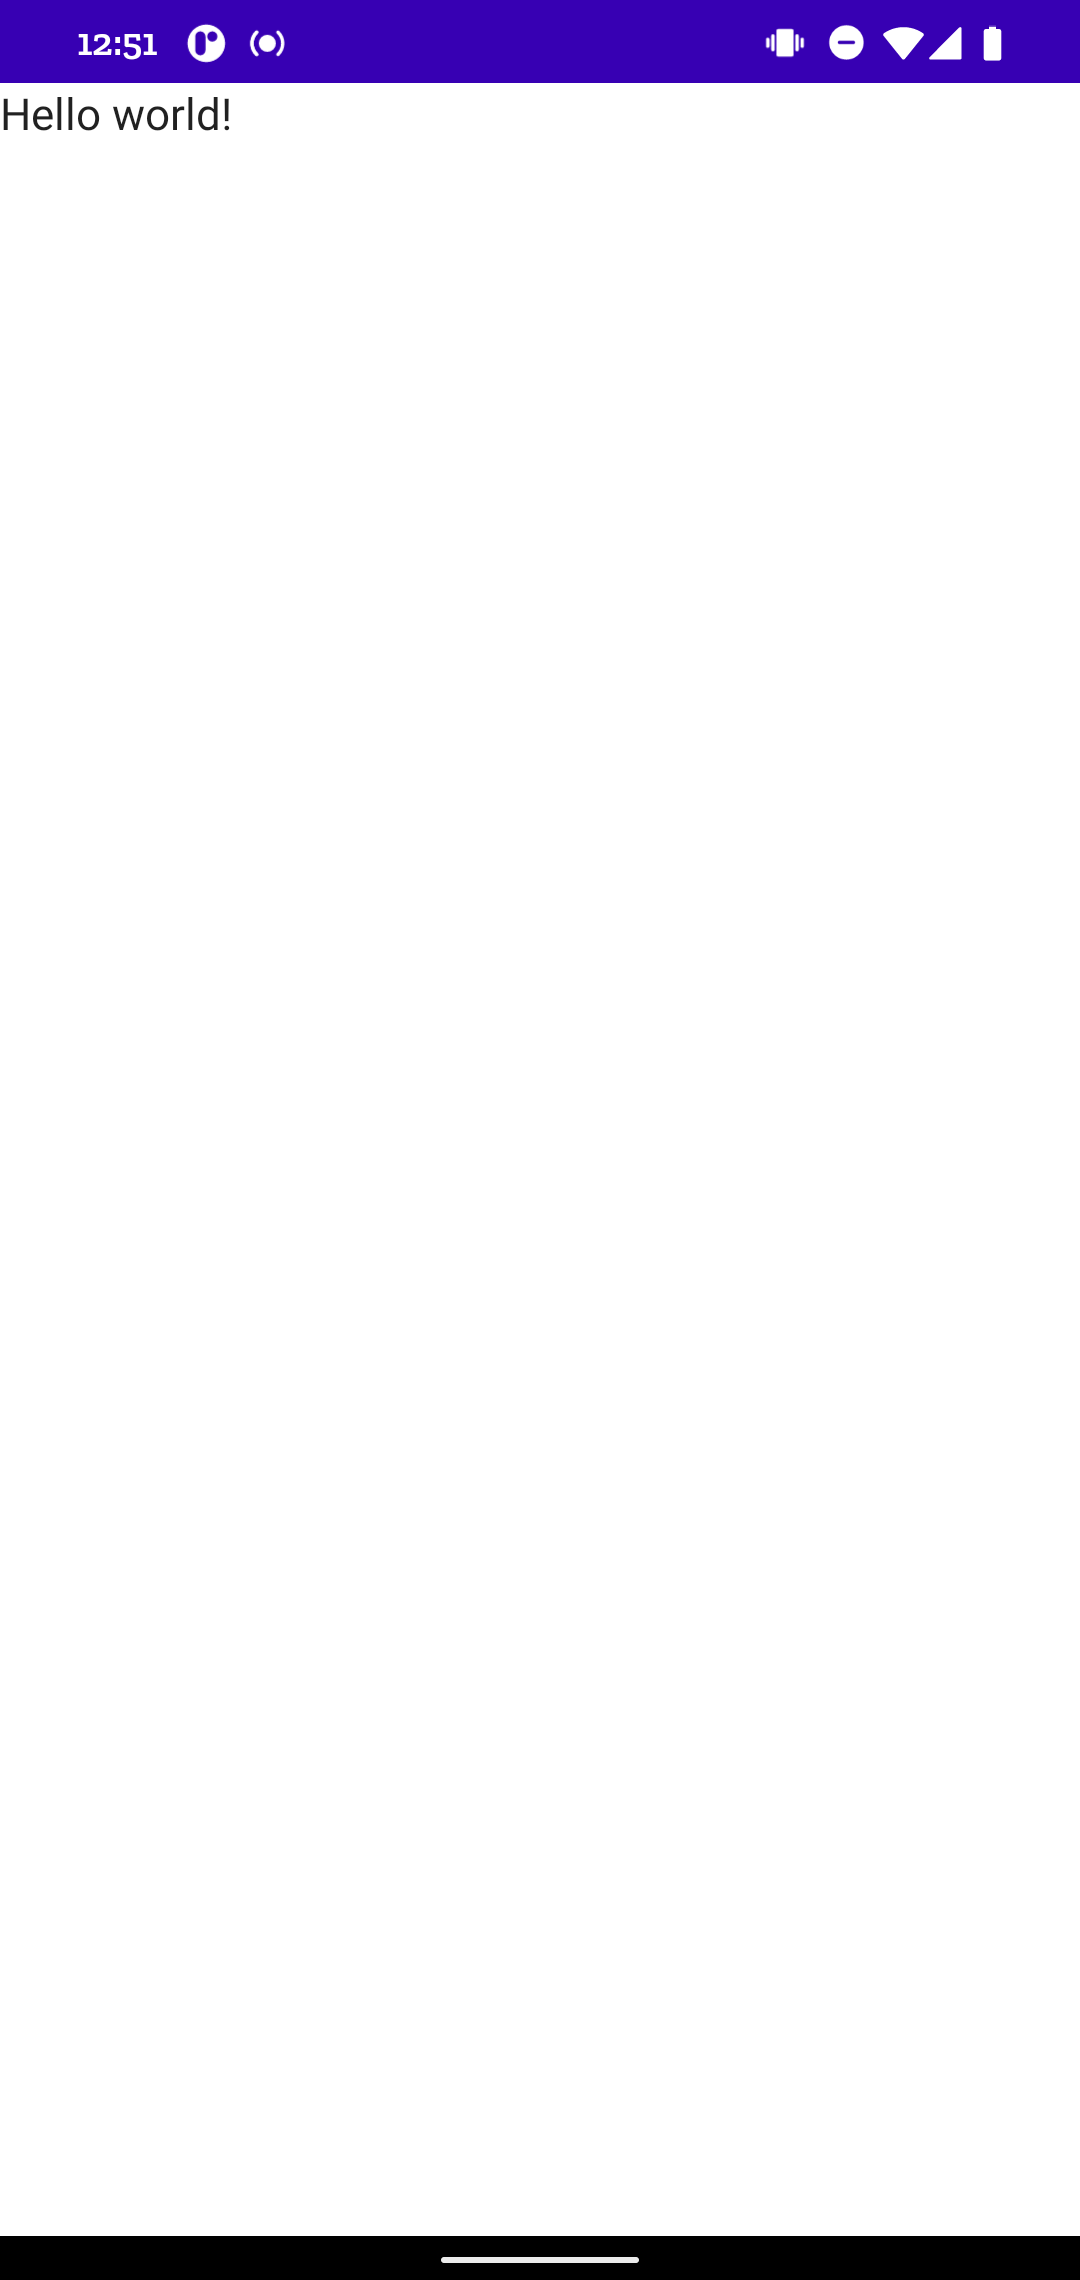
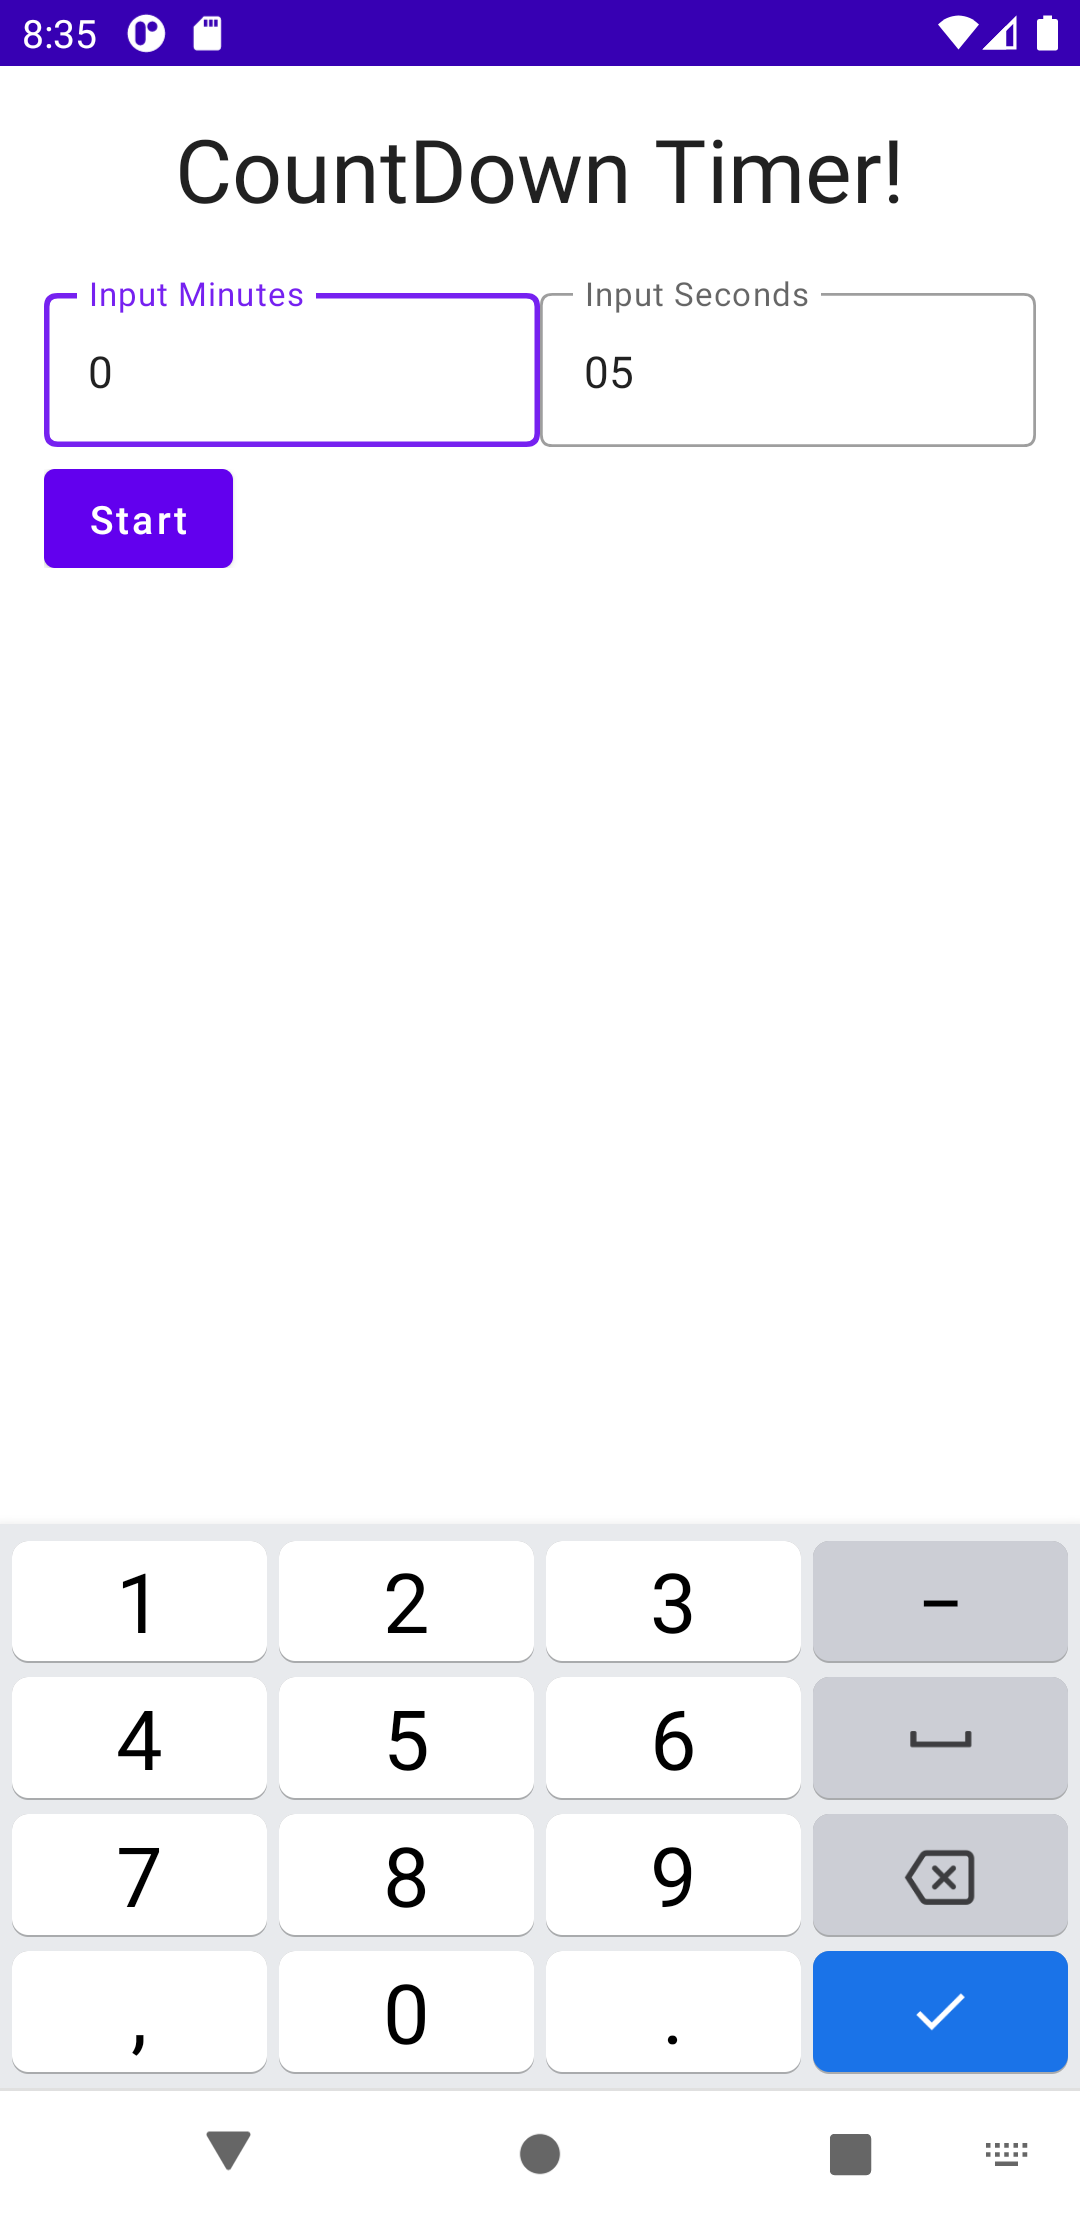
version 1

diff --git a/app/src/main/java/com/example/androiddevchallenge/MainActivity.kt b/app/src/main/java/com/example/androiddevchallenge/MainActivity.kt
@@ -17,20 +17,43 @@ package com.example.androiddevchallenge
 
 import android.os.Bundle
 import androidx.activity.compose.setContent
+import androidx.activity.viewModels
 import androidx.appcompat.app.AppCompatActivity
+import androidx.compose.animation.AnimatedVisibility
+import androidx.compose.animation.ExperimentalAnimationApi
+import androidx.compose.foundation.layout.Column
+import androidx.compose.foundation.layout.Row
+import androidx.compose.foundation.layout.Spacer
+import androidx.compose.foundation.layout.fillMaxWidth
+import androidx.compose.foundation.layout.height
+import androidx.compose.foundation.layout.padding
+import androidx.compose.foundation.text.KeyboardOptions
+import androidx.compose.material.Button
 import androidx.compose.material.MaterialTheme
+import androidx.compose.material.OutlinedTextField
 import androidx.compose.material.Surface
 import androidx.compose.material.Text
 import androidx.compose.runtime.Composable
+import androidx.compose.runtime.mutableStateOf
+import androidx.compose.runtime.remember
+import androidx.compose.ui.Alignment
+import androidx.compose.ui.Modifier
+import androidx.compose.ui.graphics.Color
+import androidx.compose.ui.text.input.KeyboardType
 import androidx.compose.ui.tooling.preview.Preview
+import androidx.compose.ui.unit.dp
+import androidx.compose.ui.unit.sp
 import com.example.androiddevchallenge.ui.theme.MyTheme
 
 class MainActivity : AppCompatActivity() {
+
+    private val countDownViewModel by viewModels<CountDownViewModel>()
+
     override fun onCreate(savedInstanceState: Bundle?) {
         super.onCreate(savedInstanceState)
         setContent {
             MyTheme {
-                MyApp()
+                MyApp(countDownViewModel)
             }
         }
     }
@@ -38,9 +61,139 @@ class MainActivity : AppCompatActivity() {
 
 // Start building your app here!
 @Composable
-fun MyApp() {
+fun MyApp(countDownViewModel: CountDownViewModel) {
+    CountDownScreen(
+        countDownMin = countDownViewModel.countDownMin,
+        countDownSec = countDownViewModel.countDownSec,
+        countDownStarted = countDownViewModel.countDownStarted,
+        buttonExpanded = countDownViewModel.buttonExpanded,
+        wrongNumberExpanded = countDownViewModel.wrongNumberExpanded,
+        validationCheck = countDownViewModel::validateNumCheck,
+        onMinuteAndSecChanged = countDownViewModel::onMinuteAndSecChanged,
+        startCountDown = countDownViewModel::startCountDown,
+        stopCountDown = countDownViewModel::stopCountDown
+    )
+}
+
+@OptIn(ExperimentalAnimationApi::class)
+@Composable
+fun CountDownScreen(
+    countDownMin: Int,
+    countDownSec: Int,
+    countDownStarted: Boolean,
+    buttonExpanded: Boolean,
+    wrongNumberExpanded: Boolean,
+    validationCheck: (String, String) -> Unit,
+    onMinuteAndSecChanged: (Int, Int) -> Unit,
+    startCountDown: () -> Unit,
+    stopCountDown: () -> Unit
+
+) {
+    var countDownMinStr = remember { mutableStateOf("0") }
+    var countDownSecStr = remember { mutableStateOf("0") }
     Surface(color = MaterialTheme.colors.background) {
-        Text(text = "Ready... Set... GO!")
+        Column(
+            modifier = Modifier
+                .padding(16.dp)
+                .fillMaxWidth(),
+            horizontalAlignment = Alignment.CenterHorizontally
+        ) {
+            Text(
+                text = "CountDown Timer!",
+                fontSize = 32.sp
+            )
+            Spacer(modifier = Modifier.height(16.dp))
+            AnimatedVisibility(!countDownStarted) {
+                Row {
+                    OutlinedTextField(
+                        value = countDownMinStr.value,
+                        onValueChange = {
+                            countDownMinStr.value = it
+                            if (!it.isEmpty()) {
+                                validationCheck(it, countDownSecStr.value)
+                            }
+                        },
+                        keyboardOptions = KeyboardOptions(keyboardType = KeyboardType.Number),
+                        label = { Text("Input Minutes") },
+                        singleLine = true,
+                        maxLines = 1,
+                        modifier = Modifier.weight(0.5f)
+                    )
+                    OutlinedTextField(
+                        value = countDownSecStr.value,
+                        onValueChange = {
+                            countDownSecStr.value = it
+                            if (!it.isEmpty()) {
+                                validationCheck(countDownMinStr.value, it)
+                            }
+                        },
+                        keyboardOptions = KeyboardOptions(keyboardType = KeyboardType.Number),
+                        label = { Text("Input Seconds") },
+                        singleLine = true,
+                        maxLines = 1,
+                        modifier = Modifier.weight(0.5f)
+                    )
+                }
+            }
+            Spacer(modifier = Modifier.height(8.dp))
+
+            AnimatedVisibility(buttonExpanded) {
+                Column(modifier = Modifier.fillMaxWidth()) {
+                    Button(
+                        onClick = {
+                            if (!countDownStarted) {
+                                onMinuteAndSecChanged(
+                                    countDownMinStr.value.toInt(),
+                                    countDownSecStr.value.toInt()
+                                )
+                                startCountDown()
+                            } else {
+                                stopCountDown()
+                            }
+                        }
+                    ) {
+                        Text("${if (!countDownStarted) "Start" else "Stop"}")
+                    }
+                }
+            }
+            Spacer(modifier = Modifier.height(200.dp))
+            AnimatedVisibility(countDownStarted) {
+                Column(
+                    modifier = Modifier.fillMaxWidth(),
+                    horizontalAlignment = Alignment.CenterHorizontally
+                ) {
+                    Text(
+                        text = "${getCurrentCountDownSec(countDownMin, countDownSec)}",
+                        fontSize = 32.sp,
+                    )
+                }
+            }
+
+            AnimatedVisibility(wrongNumberExpanded) {
+                Text(
+                    text = "Wrong Minute or Second numbers",
+                    color = Color.Red,
+                    fontSize = 16.sp,
+                )
+            }
+        }
+    }
+}
+
+fun getCurrentCountDownSec(min: Int, sec: Int): String {
+    var cStr = if (min!! <= 9) "0$min" else min.toString()
+    cStr += " : "
+    cStr += if (sec!! <= 9) "0$sec" else sec.toString()
+    return cStr
+}
+
+fun numberCheck(min: String, sec: String): Boolean {
+    try {
+        min.toInt()
+        sec.toInt()
+        return true
+    } catch (e: NumberFormatException) {
+        return false
     }
 }
 
@@ -48,14 +201,15 @@ fun MyApp() {
 @Composable
 fun LightPreview() {
     MyTheme {
-        MyApp()
+        val countDownViewModel = CountDownViewModel()
+        MyApp(countDownViewModel)
     }
 }
 
-@Preview("Dark Theme", widthDp = 360, heightDp = 640)
-@Composable
-fun DarkPreview() {
-    MyTheme(darkTheme = true) {
-        MyApp()
-    }
-}
+// @Preview("Dark Theme", widthDp = 360, heightDp = 640)
+// @Composable
+// fun DarkPreview() {
+//    MyTheme(darkTheme = true) {
+// //        MyApp()
+//    }
+// }

diff --git a/app/src/main/java/com/example/androiddevchallenge/CountDownViewModel.kt b/app/src/main/java/com/example/androiddevchallenge/CountDownViewModel.kt
@@ -1,0 +1,74 @@
+/*
+ * Copyright 2021 The Android Open Source Project
+ *
+ * Licensed under the Apache License, Version 2.0 (the "License");
+ * you may not use this file except in compliance with the License.
+ * You may obtain a copy of the License at
+ *
+ *     https://www.apache.org/licenses/LICENSE-2.0
+ *
+ * Unless required by applicable law or agreed to in writing, software
+ * distributed under the License is distributed on an "AS IS" BASIS,
+ * WITHOUT WARRANTIES OR CONDITIONS OF ANY KIND, either express or implied.
+ * See the License for the specific language governing permissions and
+ * limitations under the License.
+ */
+package com.example.androiddevchallenge
+
+import android.os.CountDownTimer
+import androidx.compose.runtime.getValue
+import androidx.compose.runtime.mutableStateOf
+import androidx.compose.runtime.setValue
+import androidx.lifecycle.ViewModel
+
+class CountDownViewModel : ViewModel() {
+    private lateinit var countDown: CountDownTimer
+    var countDownStarted by mutableStateOf(false)
+    var buttonExpanded by mutableStateOf(false)
+    var wrongNumberExpanded by mutableStateOf(false)
+    var countDownMin by mutableStateOf(0)
+    var countDownSec by mutableStateOf(0)
+
+    fun validateNumCheck(min: String, sec: String) {
+        if (numberCheck(min, sec)) {
+            buttonExpanded = true
+            wrongNumberExpanded = false
+        } else {
+            wrongNumberExpanded = true
+            buttonExpanded = false
+        }
+    }
+
+    fun onMinuteAndSecChanged(newMin: Int, newSec: Int) {
+        countDownMin = newMin
+        countDownSec = newSec + 1
+    }
+
+    fun startCountDown() {
+        countDownStarted = true
+
+        var totalSeconds = (countDownMin * 60000)
+        if (totalSeconds != null) {
+            totalSeconds += (countDownSec * 1000)
+        }
+        countDown = object : CountDownTimer(totalSeconds!!.toLong(), 1000) {
+            override fun onTick(millisUntilFinished: Long) {
+                if (countDownSec == 0 && countDownMin > 0) {
+                    countDownMin--
+                    countDownSec = 60
+                }
+
+                countDownSec--
+            }
+
+            override fun onFinish() {
+                countDownStarted = false
+            }
+        }
+        countDown.start()
+    }
+    fun stopCountDown() {
+        countDown.onFinish()
+        countDown.cancel()
+    }
+}

diff --git a/README.md b/README.md
@@ -1,27 +1,26 @@
-# Template repository
+# CountDown Timer App for ADC(Jetpack Compose)
 
-Template repository for the Jetpack Compose [#AndroidDevChallenge](https://developer.android.com/dev-challenge).
+<!--- Replace <OWNER> with your Github Username and <REPOSITORY> with the name of your repository. -->
+<!--- You can find both of these in the url bar when you open your repository in github. -->
+![Workflow result](https://github.com/leeyookyoung/CountDownTimerForADC/workflows/Check/badge.svg)
 
-## Getting started
-Copy this repository by pressing the "Use this template" button in Github.
-Clone your repository and open it in the latest [Android Studio (Canary build)](https://developer.android.com/studio/preview).
 
-## Submission requirements
-- Follow the challenge description on the project website: [developer.android.com/dev-challenge](https://developer.android.com/dev-challenge)
-- All UI should be written using Jetpack Compose
-- The Github Actions workflow should complete successfully
-- Include two screenshots of your submission in the [results](results) folder. The names should be
-  screenshot_1.png and screenshot_2.png.
-- Include a screen record of your submission in the [results](results) folder. The name should be
-  video.mp4
-- Replace the contents of [README.md](README.md) with the contents of [README-template.md](README-template.md) and fill out the template.
+## :scroll: Description
+<!--- Describe your app in one or two sentences -->
+This is an App that counts down minutes and seconds made up with Jetpack Compose
+(It maybe useful when you plank which is a sort of exercise)
 
-## Code formatting
-The CI uses [Spotless](https://github.com/diffplug/spotless) to check if your code is formatted correctly and contains the right licenses.
-Internally, Spotless uses [ktlint](https://github.com/pinterest/ktlint) to check the formatting of your code.
-To set up ktlint correctly with Android Studio, follow one of the [listed setup options](https://github.com/pinterest/ktlint#-with-intellij-idea).
+## :bulb: Motivation and Context
+<!--- Optionally point readers to interesting parts of your submission. -->
+<!--- What are you especially proud of? -->
+This is for AndroidDevChanllge,
+but I made it that would be useful for counting down seconds whenever I get plank that I usally do as an exercise.
+I checked references from [Compose pathway](https://developer.android.com/courses/pathways/compose) and [CountDownTimer class](https://developer.android.com/reference/android/os/CountDownTimer).
 
-Before committing your code, run `./gradlew app:spotlessApply` to automatically format your code.
+## :camera_flash: Screenshots
+<!-- You can add more screenshots here if you like -->
+<img src="/results/screenshot_1.png" width="260">&emsp;<img src="/results/screenshot_2.png" width="260">
+<img src="/results/screenshot_3.png" width="260">
 
 ## License
 ```

diff --git a/README_old.md b/README_old.md
@@ -1,0 +1,41 @@
+# Template repository
+
+Template repository for the Jetpack Compose [#AndroidDevChallenge](https://developer.android.com/dev-challenge).
+
+## Getting started
+Copy this repository by pressing the "Use this template" button in Github.
+Clone your repository and open it in the latest [Android Studio (Canary build)](https://developer.android.com/studio/preview).
+
+## Submission requirements
+- Follow the challenge description on the project website: [developer.android.com/dev-challenge](https://developer.android.com/dev-challenge)
+- All UI should be written using Jetpack Compose
+- The Github Actions workflow should complete successfully
+- Include two screenshots of your submission in the [results](results) folder. The names should be
+  screenshot_1.png and screenshot_2.png.
+- Include a screen record of your submission in the [results](results) folder. The name should be
+  video.mp4
+- Replace the contents of [README.md](README.md) with the contents of [README-template.md](README-template.md) and fill out the template.
+
+## Code formatting
+The CI uses [Spotless](https://github.com/diffplug/spotless) to check if your code is formatted correctly and contains the right licenses.
+Internally, Spotless uses [ktlint](https://github.com/pinterest/ktlint) to check the formatting of your code.
+To set up ktlint correctly with Android Studio, follow one of the [listed setup options](https://github.com/pinterest/ktlint#-with-intellij-idea).
+
+Before committing your code, run `./gradlew app:spotlessApply` to automatically format your code.
+
+## License
+```
+Copyright 2020 The Android Open Source Project
+
+Licensed under the Apache License, Version 2.0 (the "License");
+you may not use this file except in compliance with the License.
+You may obtain a copy of the License at
+
+    https://www.apache.org/licenses/LICENSE-2.0
+
+Unless required by applicable law or agreed to in writing, software
+distributed under the License is distributed on an "AS IS" BASIS,
+WITHOUT WARRANTIES OR CONDITIONS OF ANY KIND, either express or implied.
+See the License for the specific language governing permissions and
+limitations under the License.
+```
